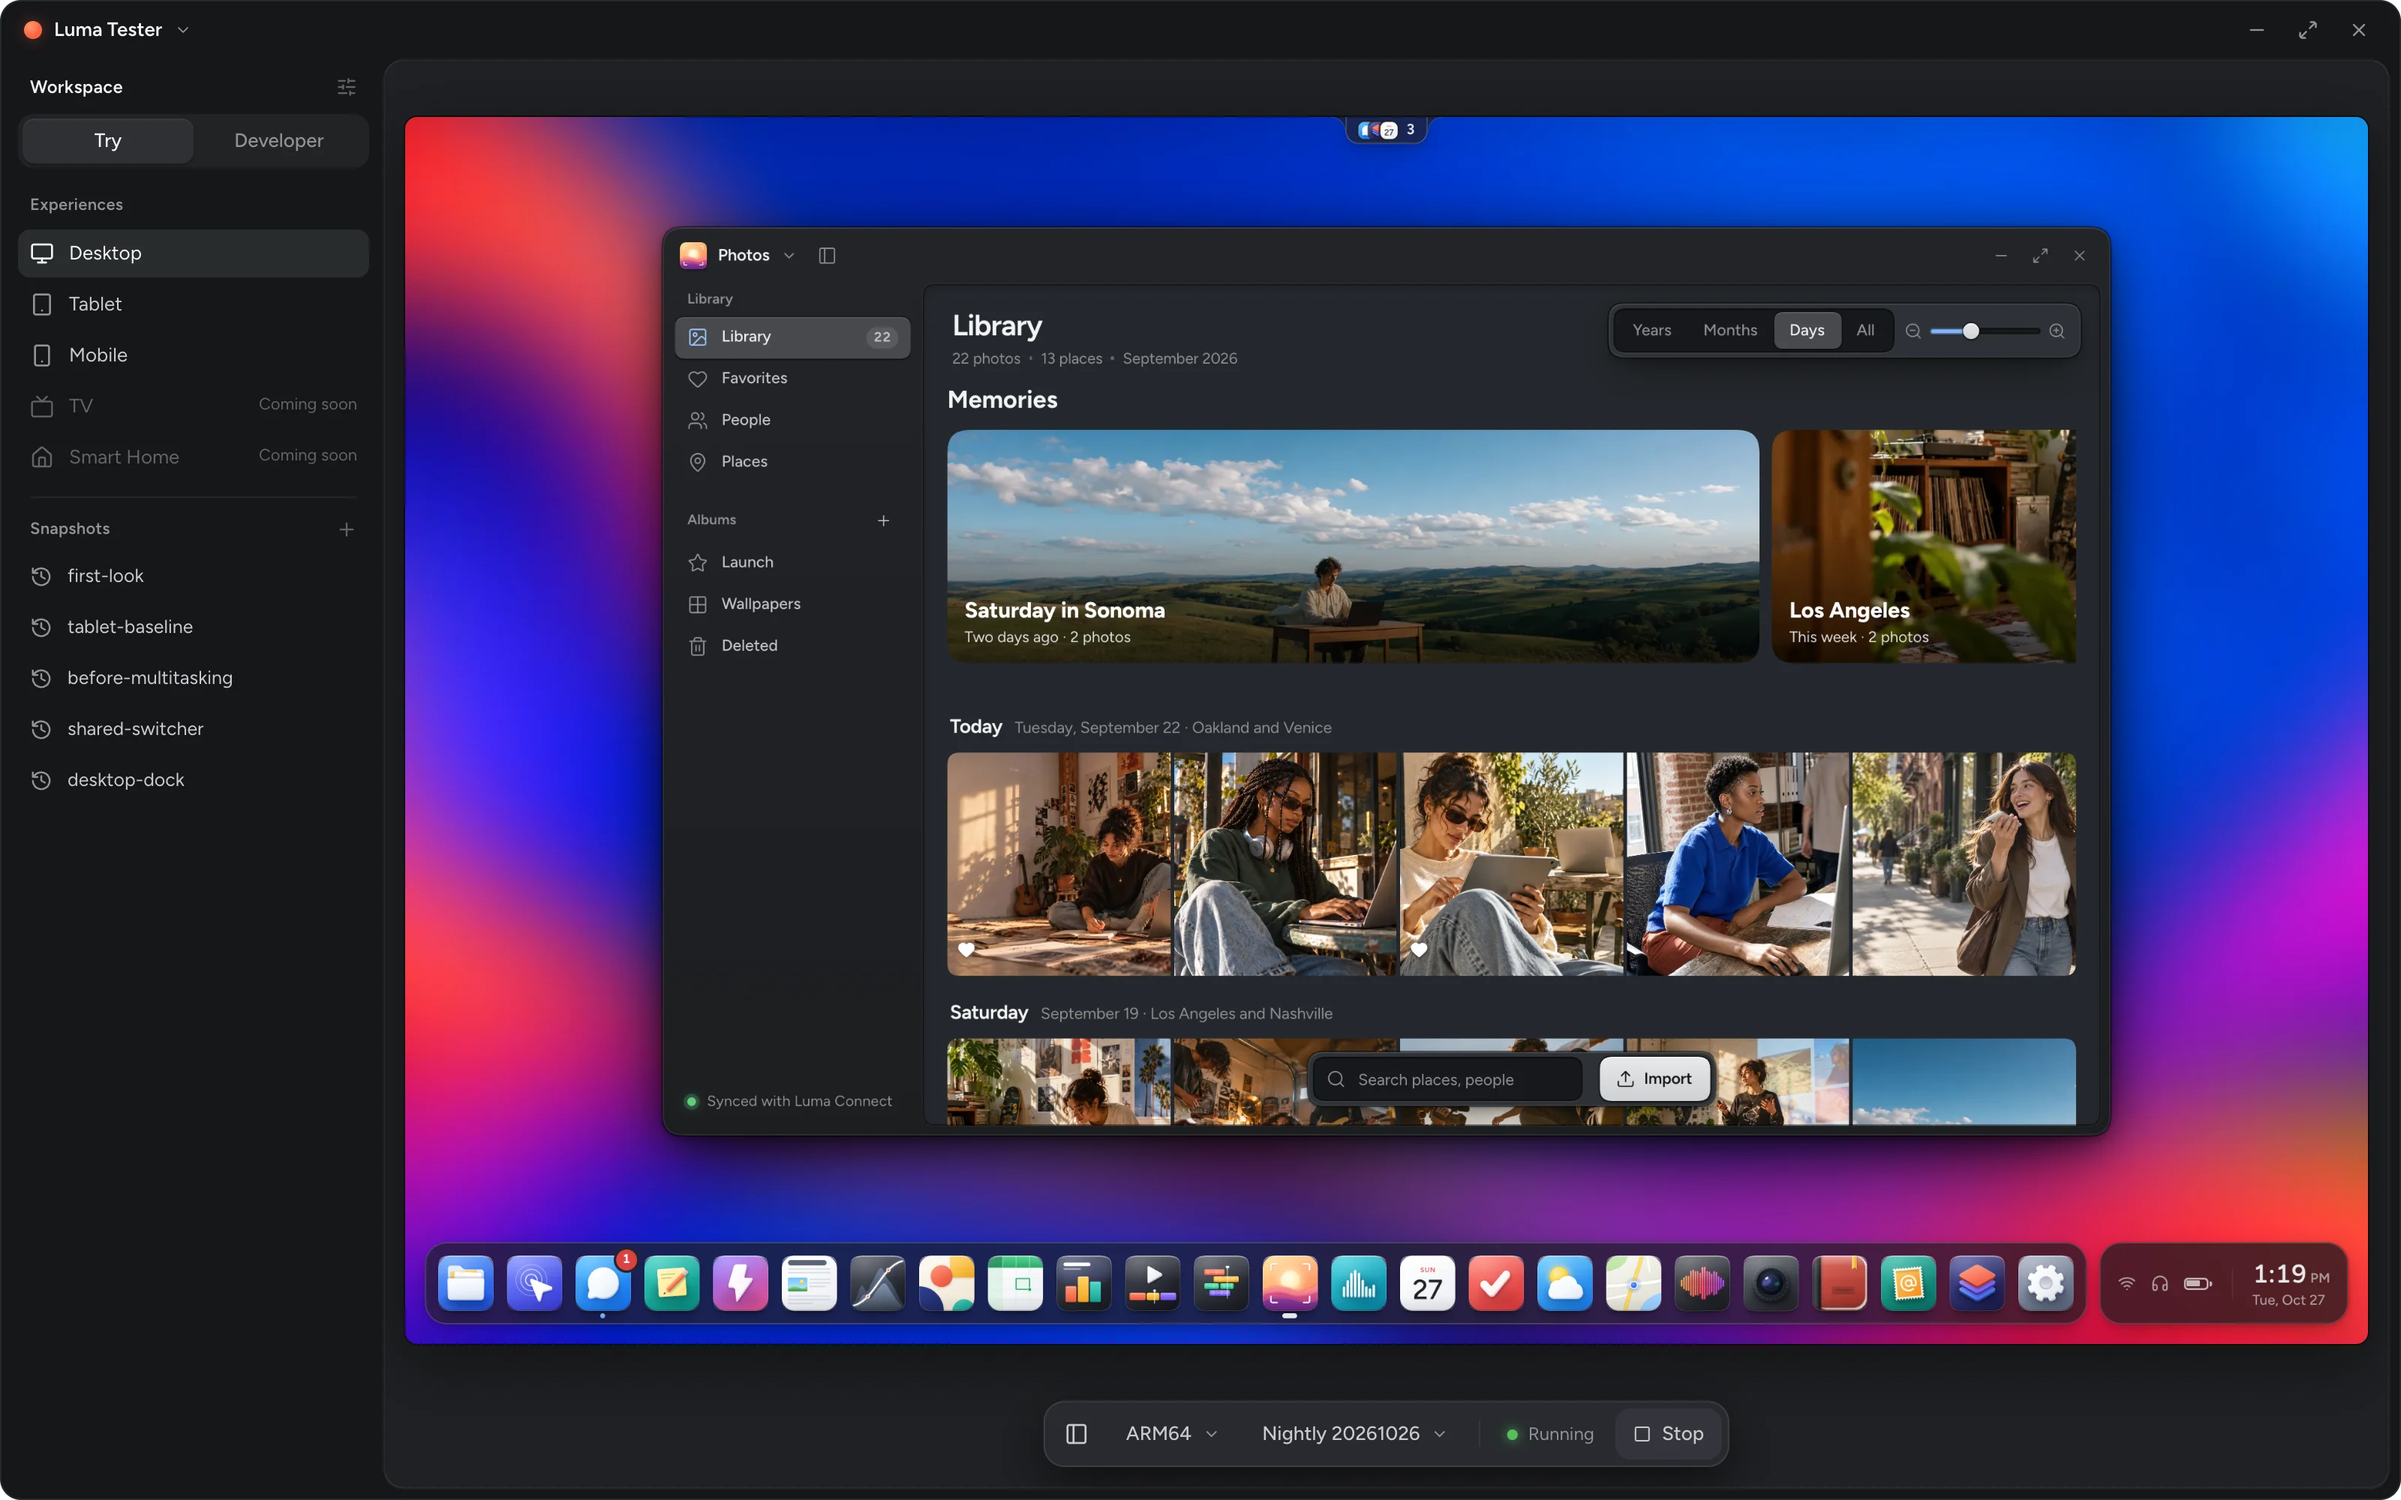
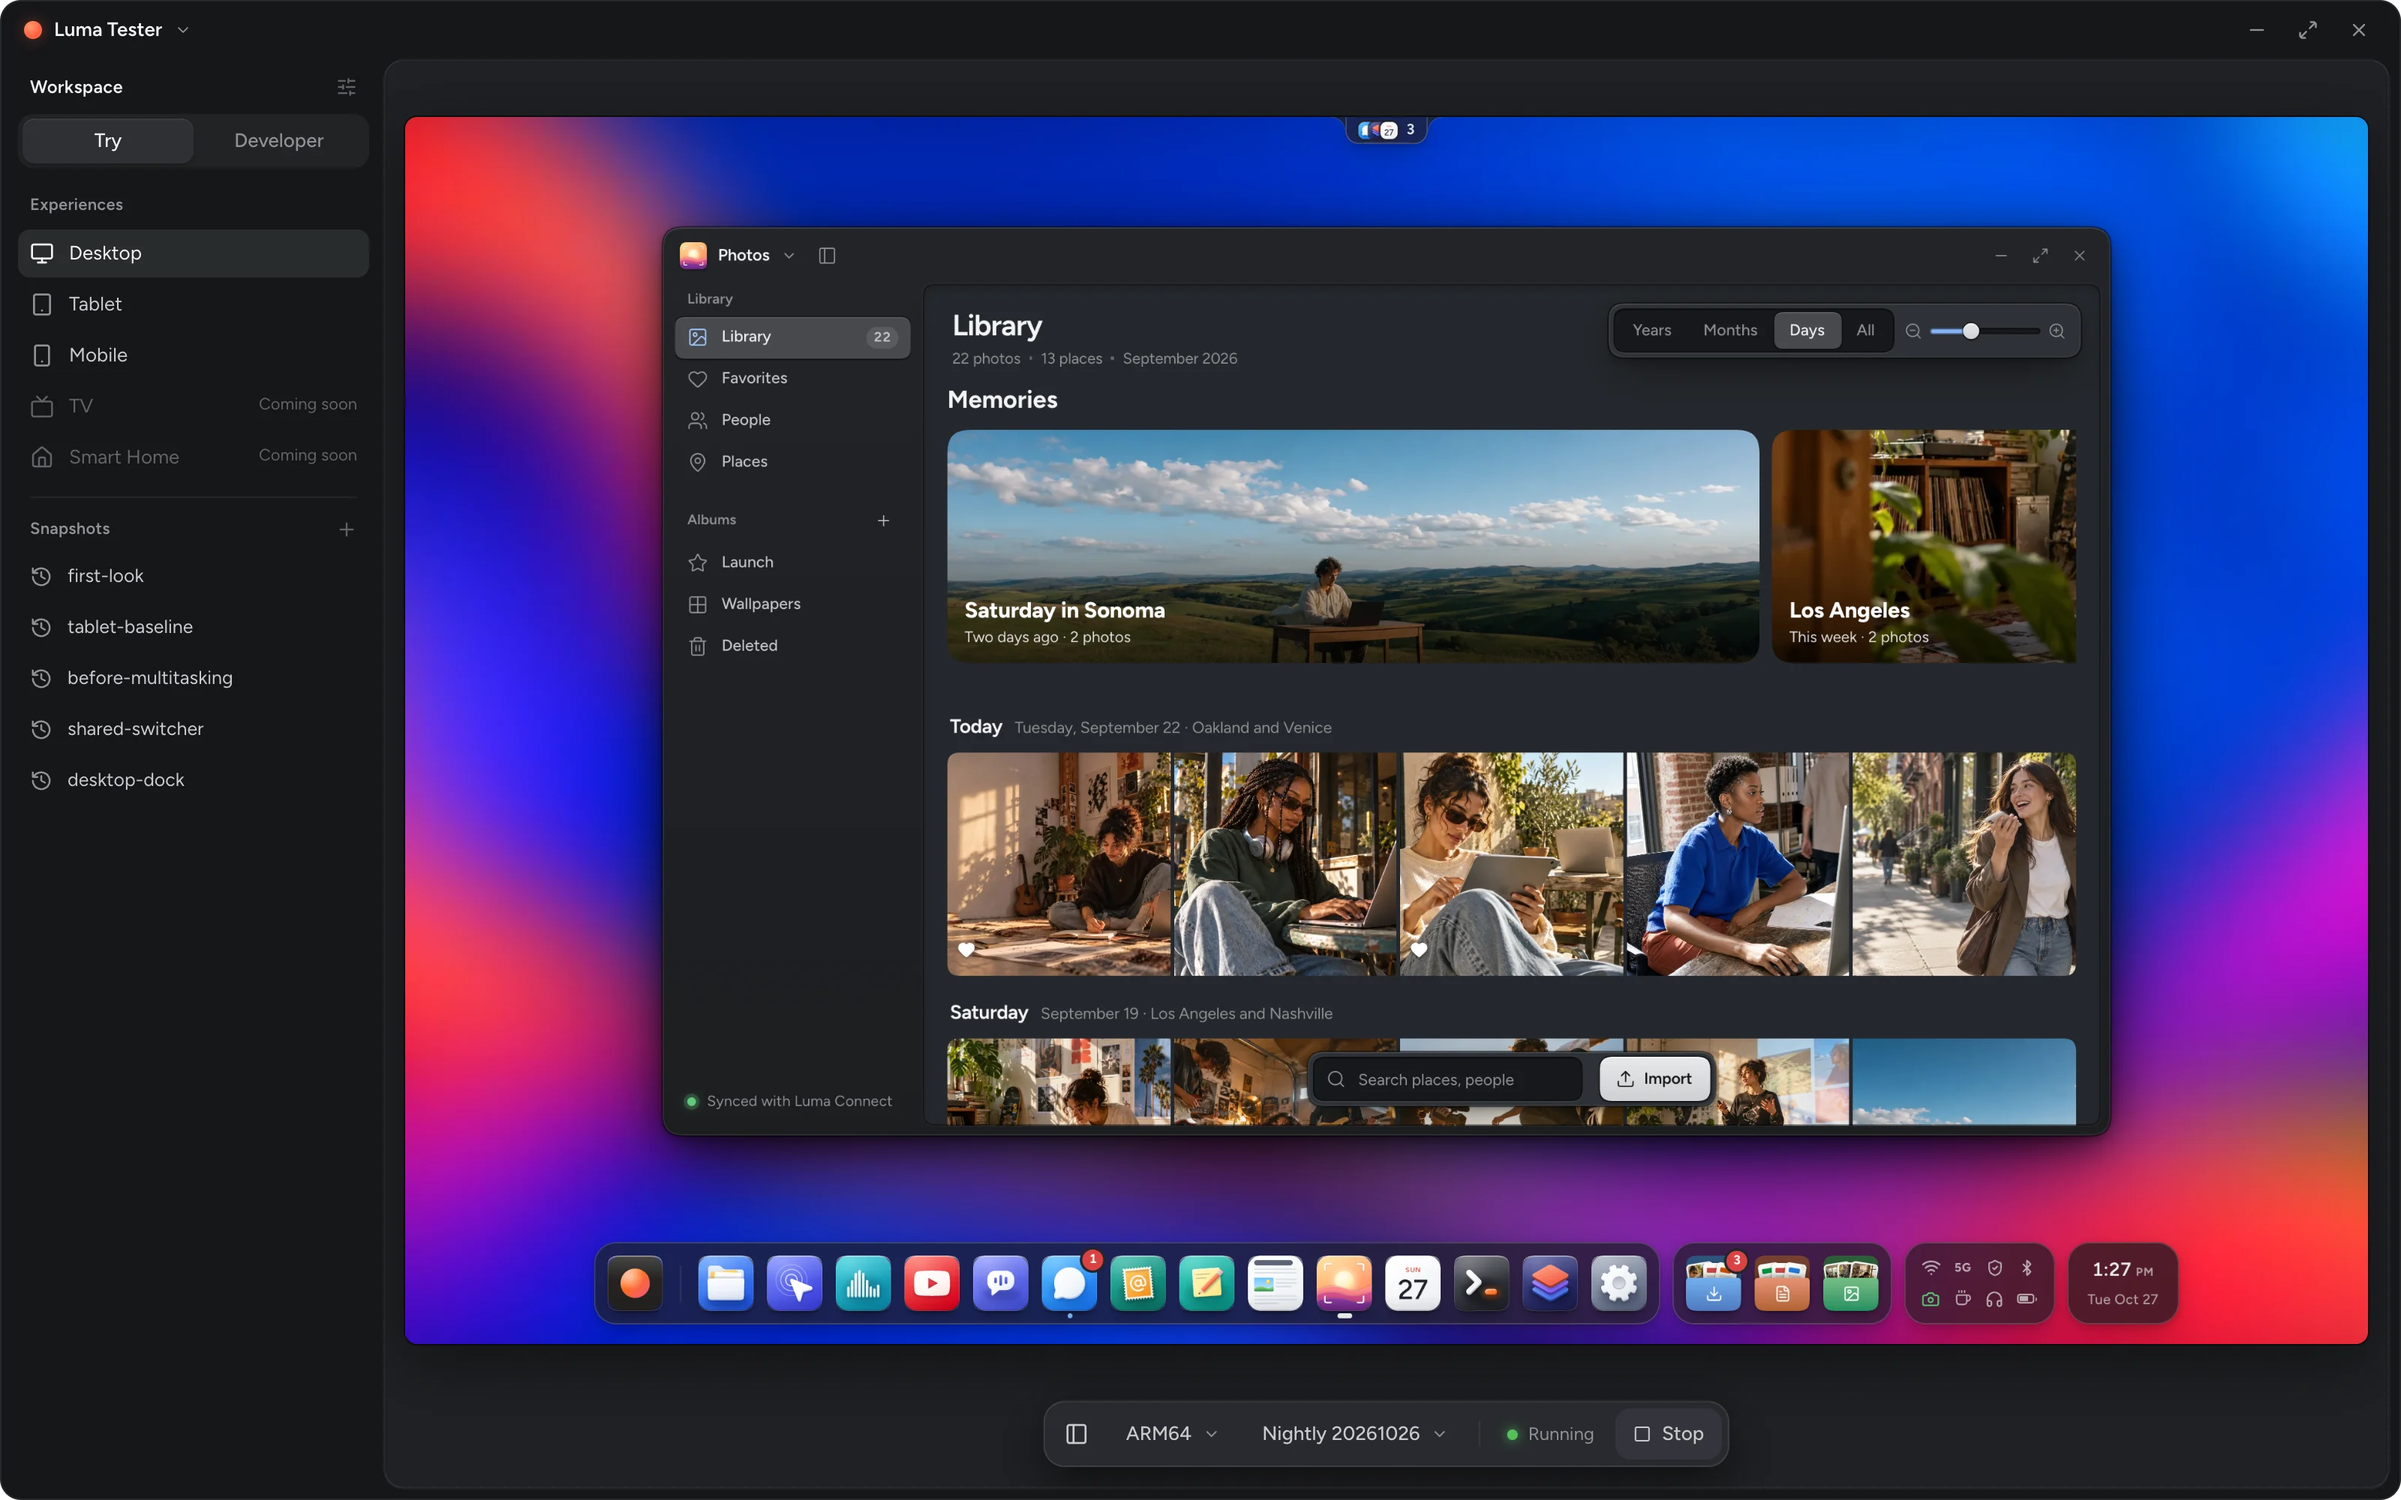
README: one screenshot, current shelf

Changed region(s): [[0.1562, 0.806, 1.0, 0.899]]

diff --git a/README.md b/README.md
@@ -5,8 +5,6 @@ Desktop, Tablet and Mobile locally, with persistent workspaces and snapshots.
 
 ![Luma Tester in Try mode, running Luma Desktop with Photos open](assets/luma-tester-try.webp)
 
-![Luma Tester in Developer mode, with SSH access on and a terminal open in Luma](assets/luma-tester-developer.webp)
-
 The app downloads OS images when needed. One x86-64 ISO and one ARM64 ISO serve
 all three experiences. OS downloads stay in Luma's download channel; application
 packages belong in this repository's GitHub Releases.
